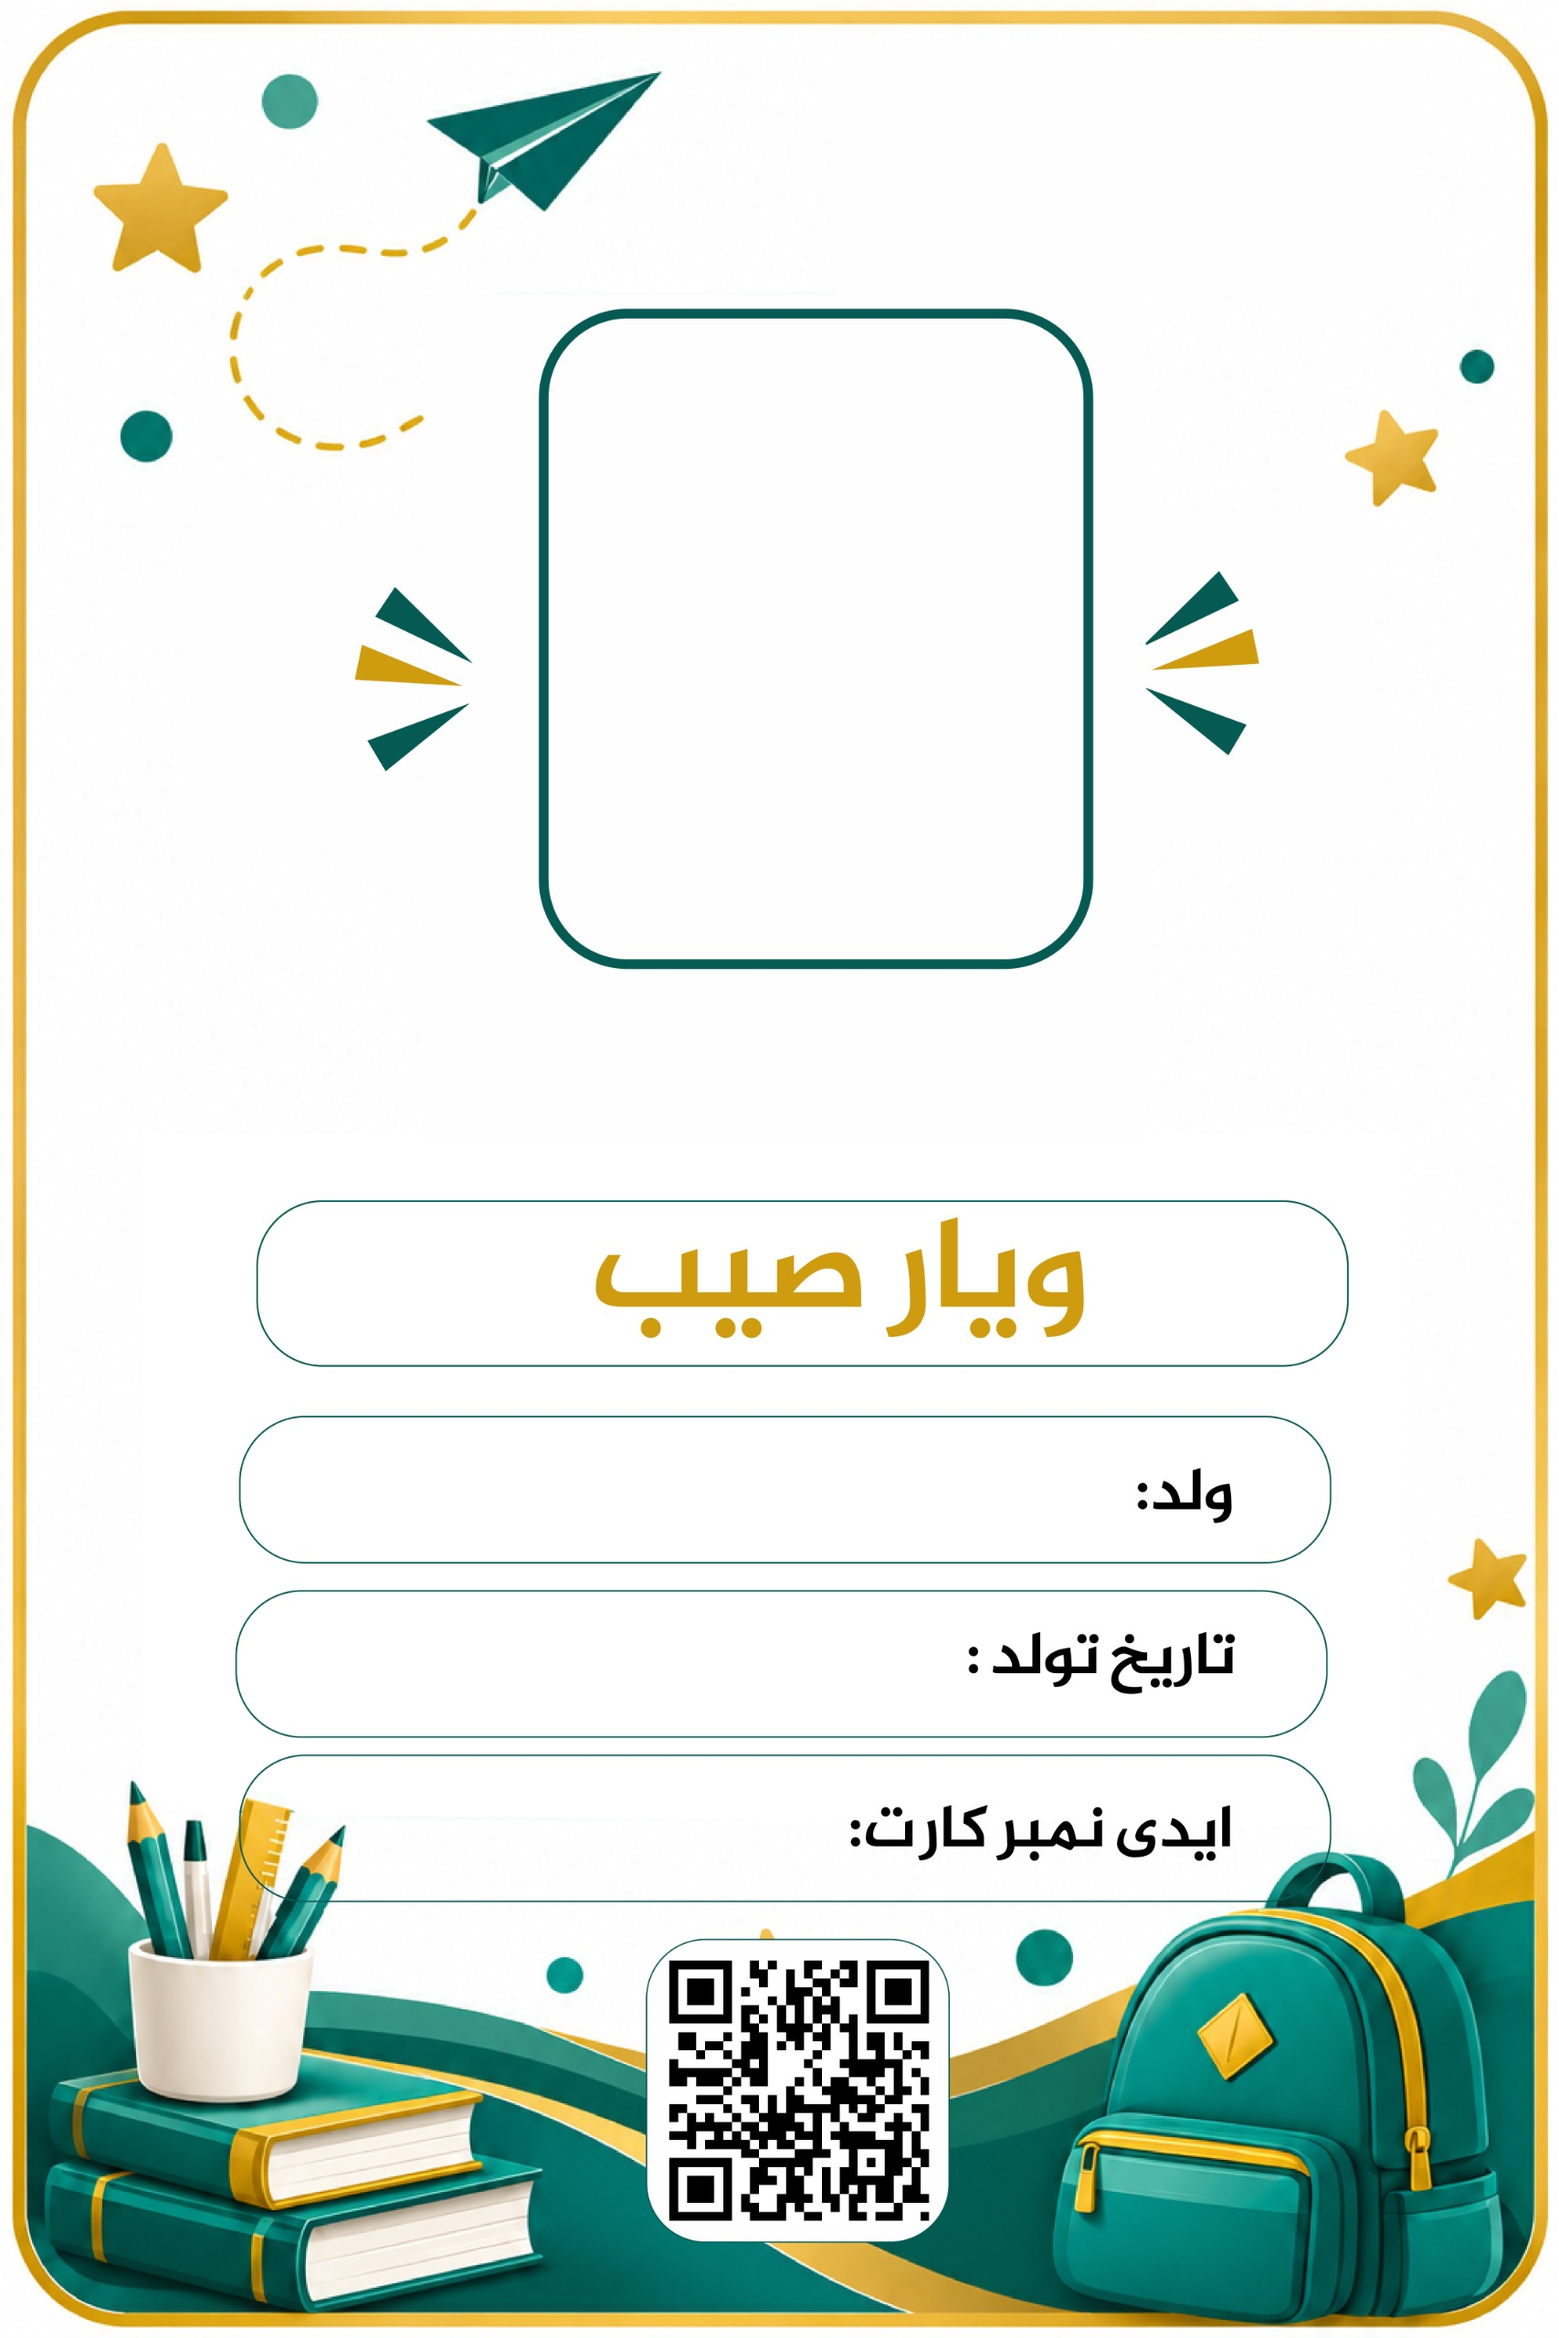
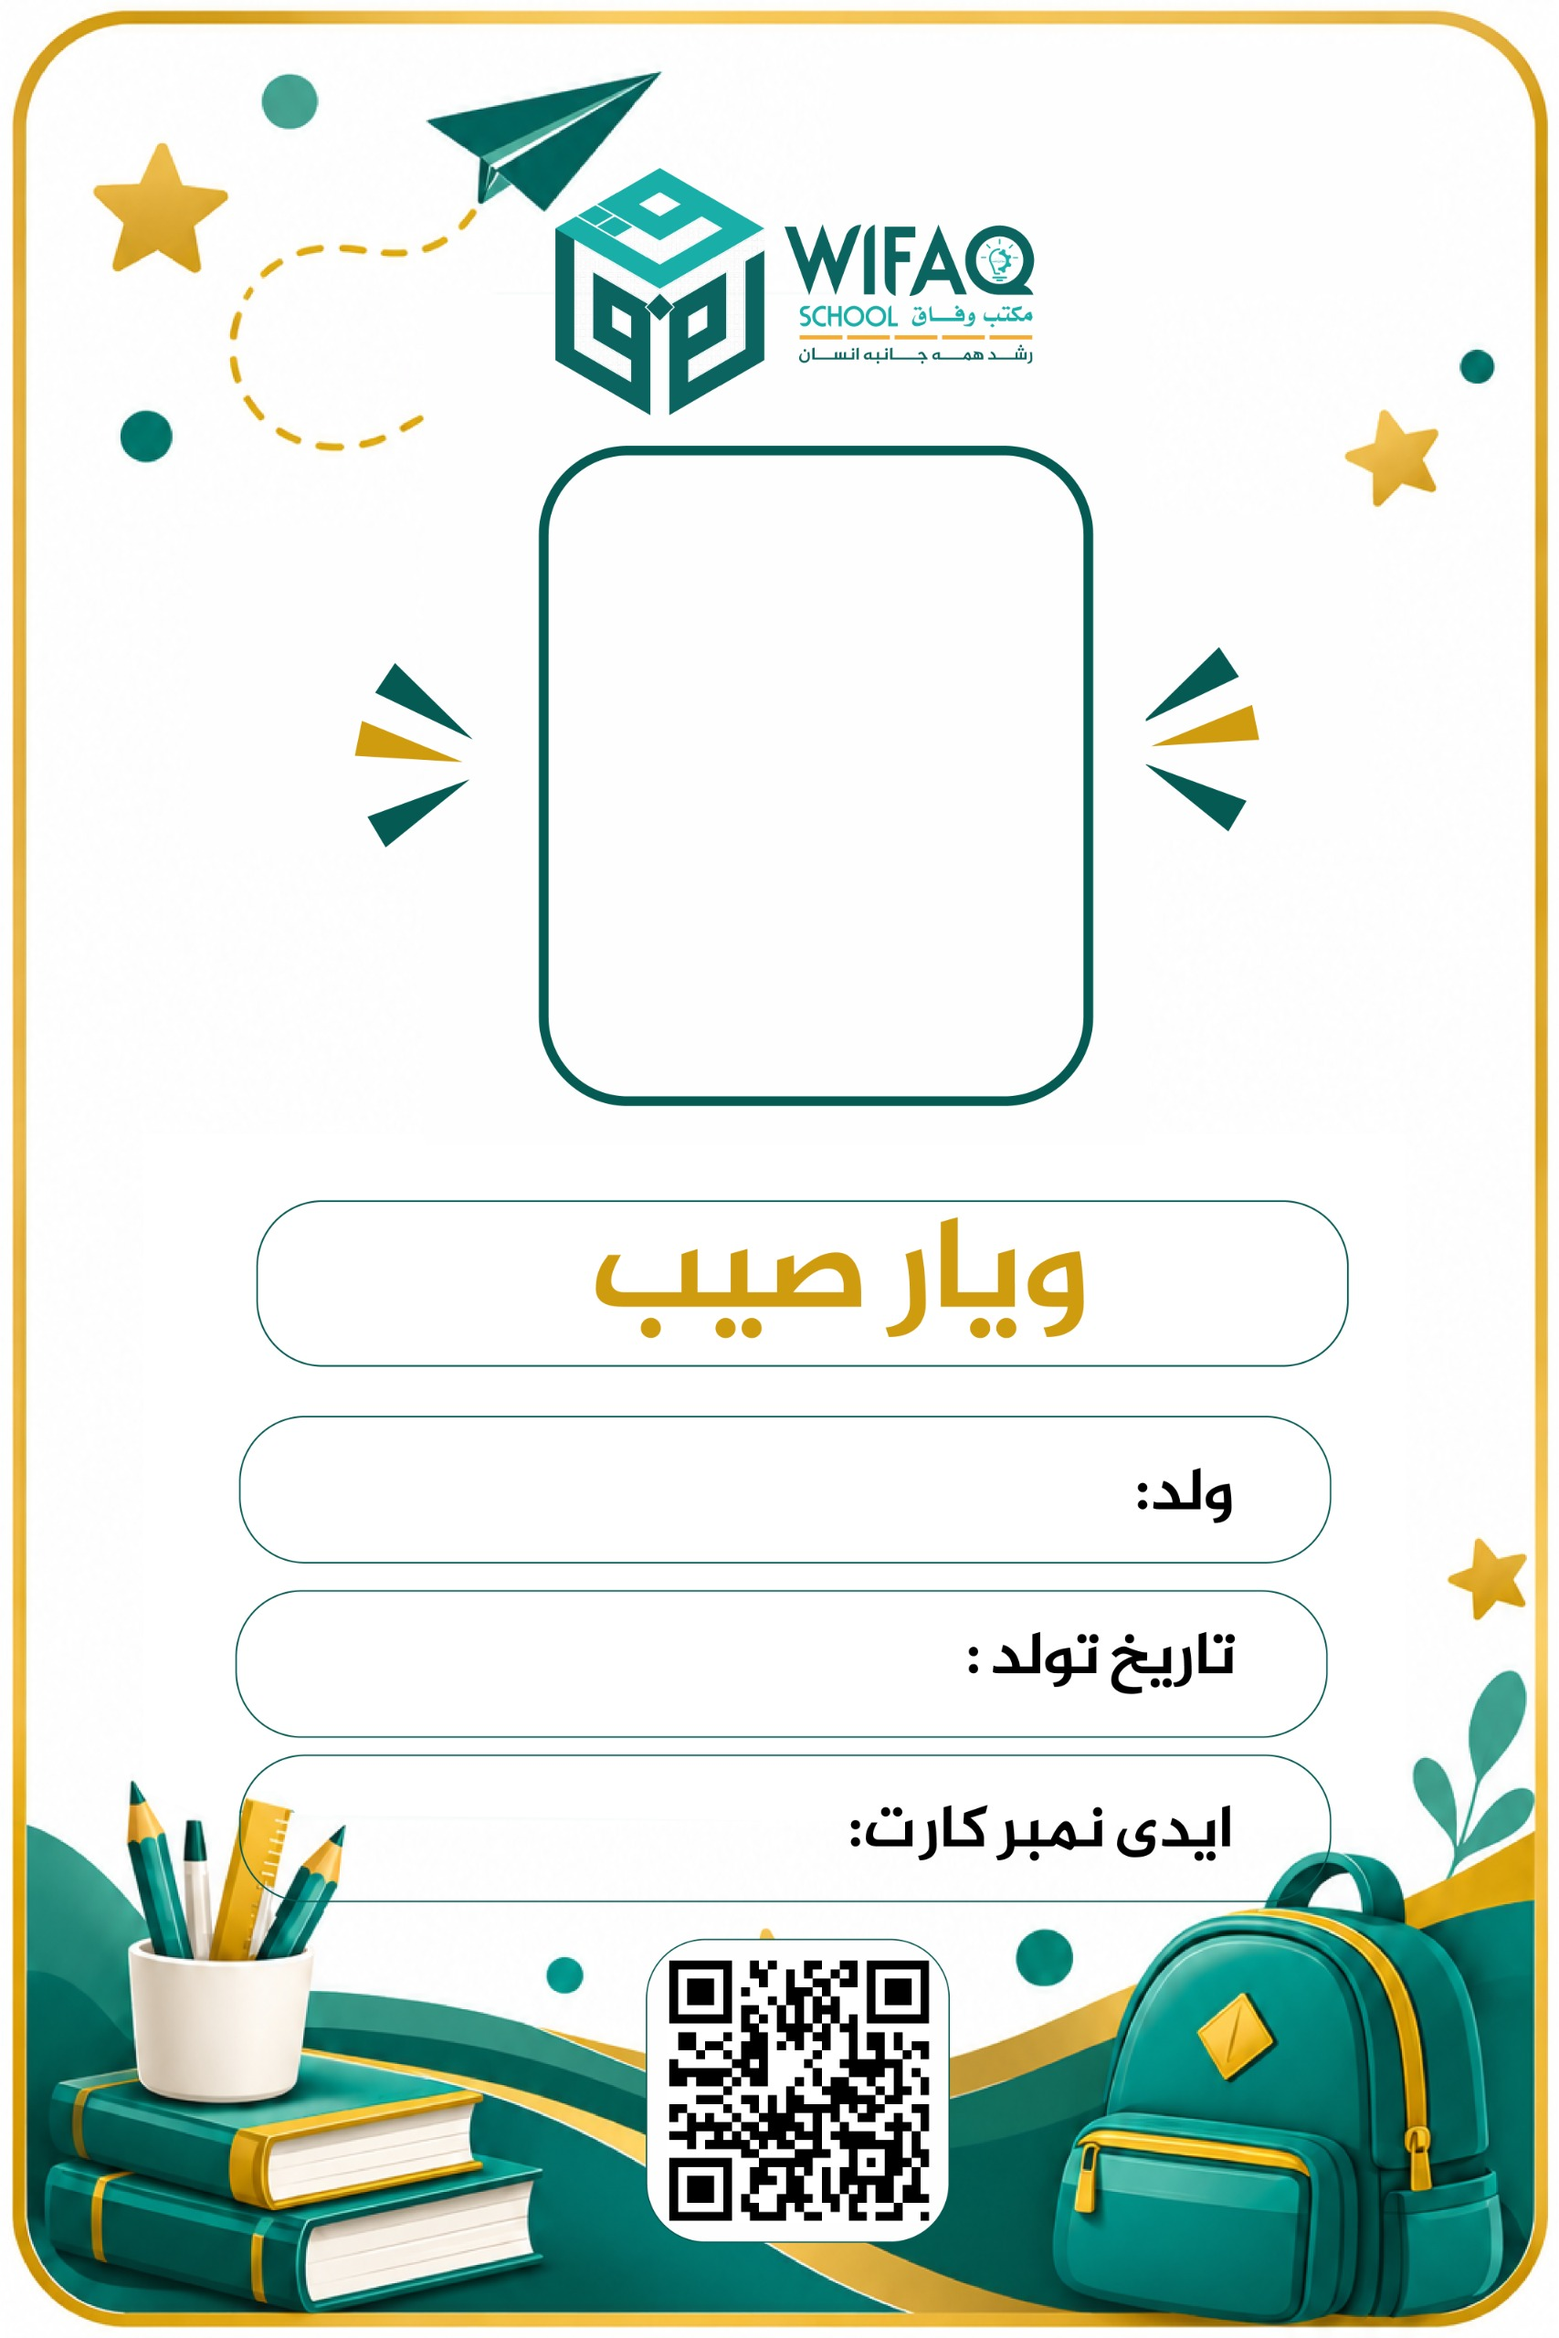
updated

diff --git a/src/pages/studentMangement/cardCanvas.js b/src/pages/studentMangement/cardCanvas.js
@@ -126,15 +126,8 @@ export async function drawCard(card, opts = {}) {
   roundRect(ctx, X(0.4235), Y(0.8342), X(0.1766), Y(0.1173), X(0.03));
   ctx.fill();
 
-  /* ── the Wifaq logo, top corner ────────────────────────────────────────── */
-  if (logo) {
-    const w = X(0.22);
-    const h = (logo.height / logo.width) * w;
-    ctx.drawImage(logo, X(0.95) - w, Y(0.035), w, h);
-  }
-
   /* ── the photo, inside the frame — or the logo on the conference card ──── */
-  const fx = X(0.357), fy = Y(0.140), fw = X(0.333), fh = Y(0.266);
+  const fx = X(0.357), fy = Y(0.1975), fw = X(0.333), fh = Y(0.268);
   ctx.save();
   roundRect(ctx, fx, fy, fw, fh, X(0.045));
   ctx.clip();
